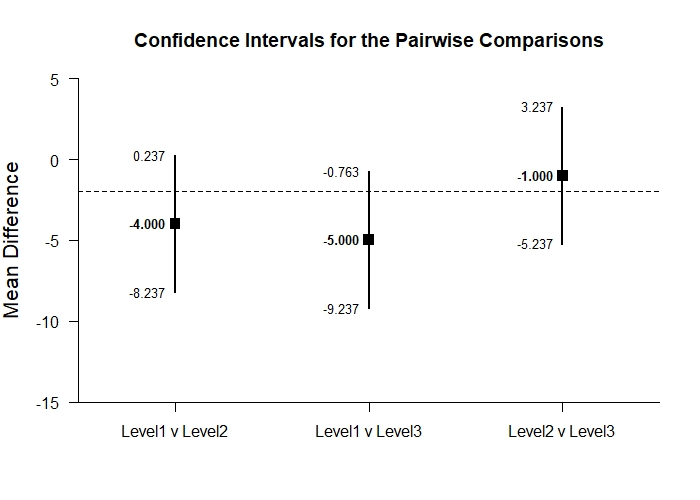
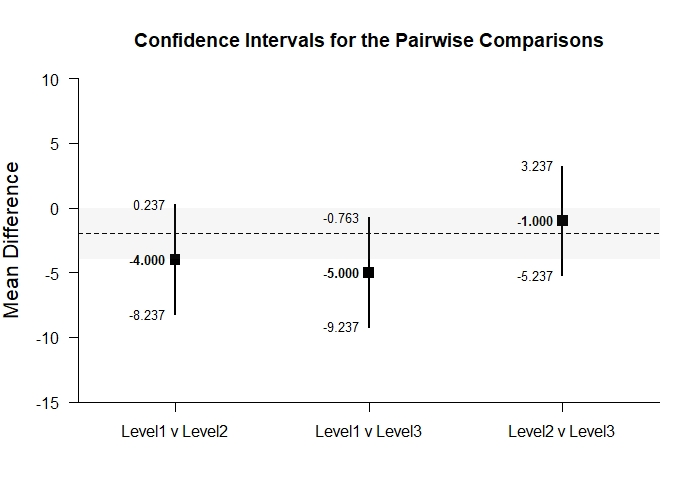
Added ROPE

diff --git a/D-Advanced/PairwiseOneWay/PairwiseOneWay-Data-Example.md b/D-Advanced/PairwiseOneWay/PairwiseOneWay-Data-Example.md
@@ -76,7 +76,7 @@ plotPairwise(Outcome~Factor) # PairwiseOneWay-Figure1.jpeg
 ```
 <kbd><img src="PairwiseOneWay-Figure1.jpeg"></kbd>
 ```r
-plotPairwise(Outcome~Factor,mu=-2,conf.level=.99) # PairwiseOneWay-Figure2.jpeg
+plotPairwise(Outcome~Factor,mu=-2,conf.level=.99,rope=c(-4,0)) # PairwiseOneWay-Figure2.jpeg
 ```
 <kbd><img src="PairwiseOneWay-Figure2.jpeg"></kbd>
 

diff --git a/D-Advanced/PairwiseOneWay/PairwiseOneWay-Summary-Example.md b/D-Advanced/PairwiseOneWay/PairwiseOneWay-Summary-Example.md
@@ -70,7 +70,7 @@ plotPairwise(OneWaySummary) # PairwiseOneWay-Figure1.jpeg
 ```
 <kbd><img src="PairwiseOneWay-Figure1.jpeg"></kbd>
 ```r
-plotPairwise(OneWaySummary,mu=-2,conf.level=.99) # PairwiseOneWay-Figure2.jpeg
+plotPairwise(OneWaySummary,mu=-2,conf.level=.99,rope=c(-4,0)) # PairwiseOneWay-Figure2.jpeg
 ```
 <kbd><img src="PairwiseOneWay-Figure2.jpeg"></kbd>
 
